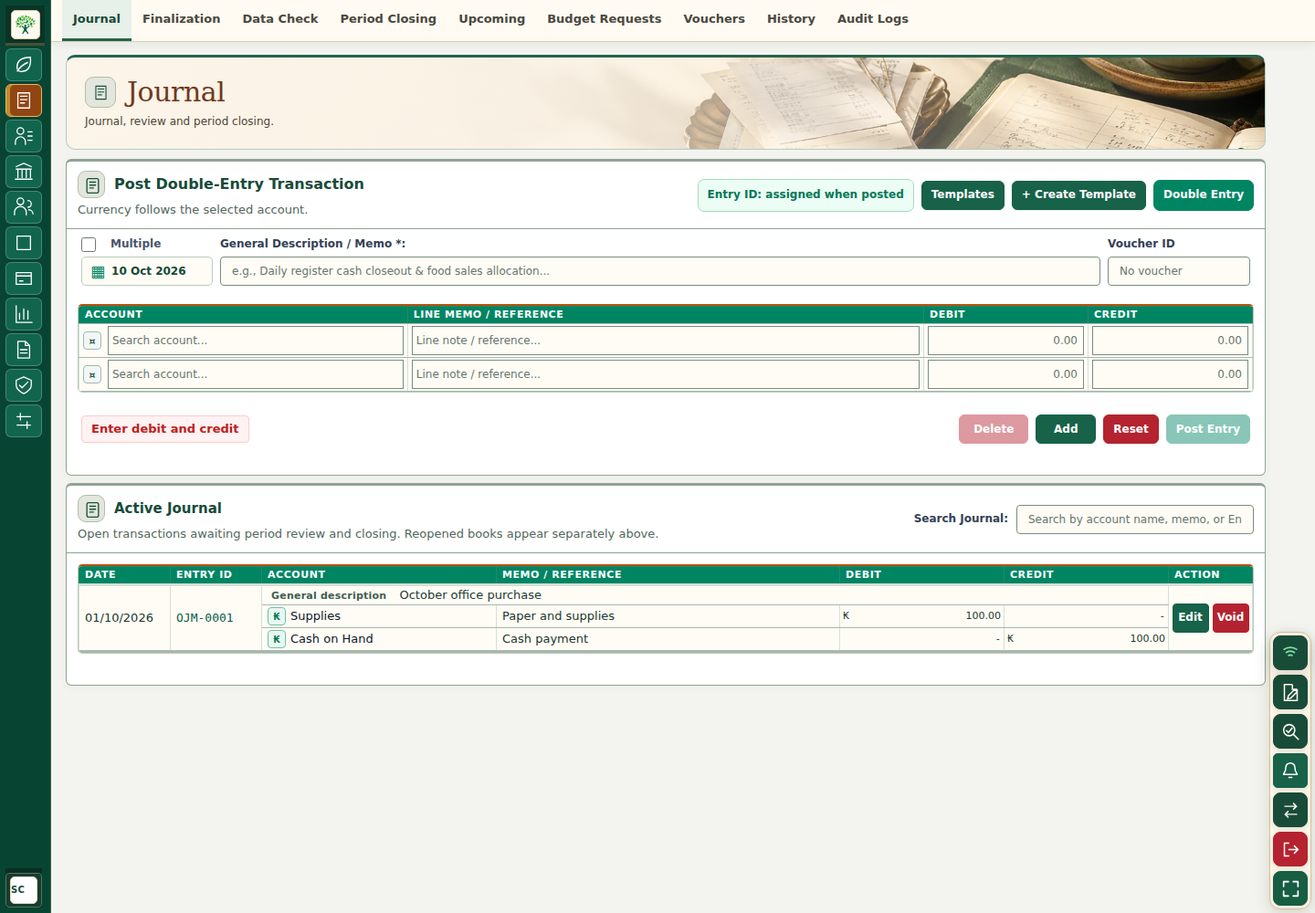
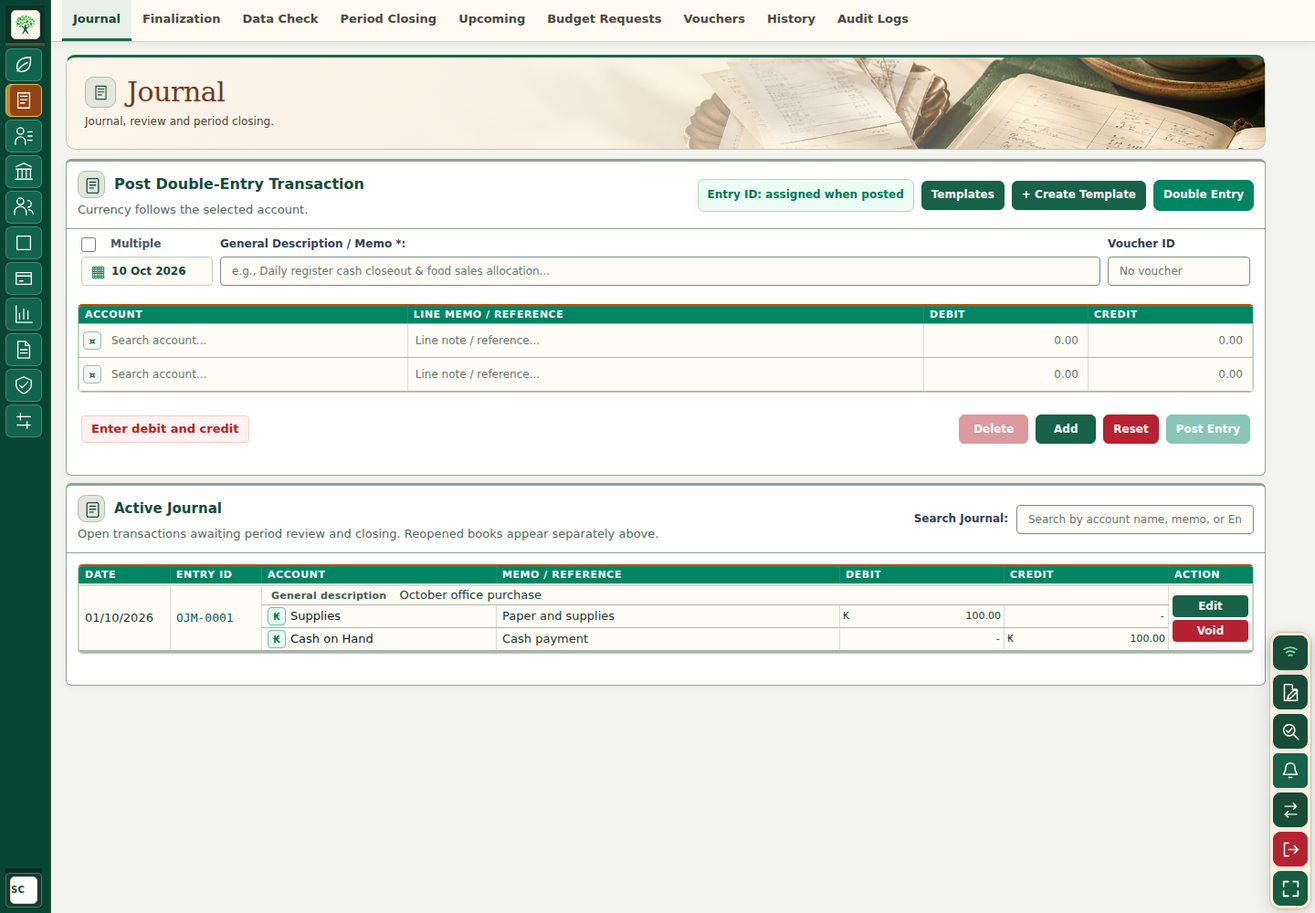
v143.28: Restore vertical journal actions and borderless transaction cells
Keep Edit above Void with the approved 24px journal-only button height exception. Remove nested textbox borders and backgrounds from Post Transaction table cells. Preserve compact rows, input behavior, phone and print layouts.

Validated 12 browser checks and 148 offline asset downloads.

diff --git a/desktop-sw14242.js b/desktop-sw14242.js
@@ -34,8 +34,11 @@ OJM_OFFLINE_ASSETS=[...new Set([...OJM_OFFLINE_ASSETS,...REPORT_COMPARISON_ASSET
 const COMPACT_ASSETS14327=["styles/compact14327.css","scripts/desktop14245-4.js","scripts/offline14239.js","assets/maintenance/release14324.json","docs/UPDATE-v143.27.md"];
 RELEASE_ASSETS14299.push(...COMPACT_ASSETS14327);
 OJM_OFFLINE_ASSETS=[...new Set([...OJM_OFFLINE_ASSETS,...COMPACT_ASSETS14327])];
-const releaseVersion14299=asset=>COMPACT_ASSETS14327.includes(asset)?'143.27':REPORT_COMPARISON_ASSETS14326.includes(asset)?'143.26':POLISH_ASSETS14325.includes(asset)?'143.25':MAINTENANCE_ASSETS14324.includes(asset)?'143.24':RECOVERY_ASSETS14323.includes(asset)?'143.23':PALETTE_ASSETS14321.includes(asset)?'143.21':PORTABLE_ASSETS14320.includes(asset)?'143.20':asset==='scripts/phone-runtime14242.js'?'143.17':["scripts/hr-calendar-news14309.js", "styles/local-events14310.css", "docs/UPDATE-v143.18.md", "scripts/company-accounts14319.js", "docs/UPDATE-v143.19.md", "scripts/offline14239.js", "scripts/desktop14245-2.js", "styles/budget-messages14314.css", "scripts/desktop14245-3.js", "scripts/desktop14245-4.js", "scripts/desktop14245-5.js", "scripts/desktop14245-6.js", "scripts/workflow14253.js", "scripts/layout14256.js", "scripts/action-feedback14296.js", "scripts/vouchers14299.js", "scripts/local-events14310.js", "scripts/navigation-badges14311.js", "scripts/budget-gmail14314.js", "scripts/budget-messages14314.js", "scripts/budget14313.js", "styles/workflow14316.css", "scripts/budget-workflow14316.js", "scripts/navigation-workflow14316.js", "styles/controls14317.css", "scripts/controls14317.js", "scripts/period-closing14317.js", "scripts/phone-runtime14242.js"].includes(asset)?'143.20':["scripts/controls14317.js", "styles/controls14317.css", "scripts/period-closing14317.js", "setup/INSTALL-DEFERRED-SUBMISSIONS-v143.17.sql", "docs/UPDATE-v143.17.md"].includes(asset)?'143.17':["scripts/budget-workflow14316.js", "scripts/navigation-workflow14316.js", "styles/workflow14316.css", "setup/INSTALL-BUDGET-LIFECYCLE-v143.16.sql", "docs/WORKFLOW-v143.16.md", "scripts/budget14313.js", "scripts/budget-messages14314.js", "scripts/action-feedback14296.js", "scripts/vouchers14299.js", "scripts/navigation-badges14311.js", "scripts/local-events14310.js", "scripts/layout14256.js", "scripts/desktop14245-2.js", "scripts/desktop14245-3.js", "scripts/desktop14245-4.js", "scripts/desktop14245-5.js", "scripts/desktop14245-6.js", "scripts/offline14239.js", "scripts/archive-v128.js", "scripts/audit-workspace14232.js", "scripts/backup-validation1441.js"].includes(asset)?'143.17':["scripts/budget-gmail14314.js", "scripts/budget-messages14314.js", "styles/budget-messages14314.css", "docs/GMAIL-SETUP-v143.14.md", "scripts/budget14313.js", "scripts/desktop14245-5.js", "scripts/offline14239.js"].includes(asset)?'143.14':['scripts/budget14313.js','setup/INSTALL-BUDGET-TEMPLATES-v143.13.sql'].includes(asset)?'143.13':['scripts/desktop14245-3.js', 'scripts/desktop14245-4.js', 'scripts/desktop14245-5.js', 'scripts/desktop14245-6.js', 'scripts/document-downloads14311.js', 'scripts/offline14239.js', 'scripts/phone-runtime14242.js', 'styles/navigation-badges14311.css'].includes(asset)?'143.13':['scripts/document-downloads14311.js','scripts/offline14239.js','setup/INSTALL-DOWNLOAD-PASSWORDS-v143.12.sql'].includes(asset)?'143.12':['scripts/document-downloads14311.js','scripts/navigation-badges14311.js','styles/navigation-badges14311.css','setup/INSTALL-HR-DOCUMENT-FORMATS-v143.11.sql','scripts/desktop14245-3.js','scripts/desktop14245-4.js','scripts/hr-workspace14306.js','scripts/offline14239.js'].includes(asset)?'143.11':['scripts/local-events14310.js','styles/local-events14310.css','docs/LOCAL-EVENTS-SETUP.txt','scripts/hr-calendar14306.js','scripts/hr-calendar-news14309.js','scripts/desktop14245-4.js','scripts/offline14239.js'].includes(asset)?'143.10':['scripts/hr-calendar-news14309.js','scripts/hr-calendar-model14306.js','scripts/hr-calendar14306.js','styles/hr-workspace14306.css','scripts/desktop14245-3.js','scripts/offline14239.js'].includes(asset)?'143.09':['styles/controls14305.css', 'styles/hr-workspace14306.css', 'scripts/desktop14245-3.js', 'scripts/desktop14245-6.js', 'scripts/offline14239.js', 'scripts/phone-runtime14242.js'].includes(asset)?'143.08':['scripts/desktop14245-6.js','scripts/desktop14245-4.js','scripts/desktop14245-3.js','scripts/hr-calendar14306.js','scripts/hr-workspace14306.js','scripts/offline14239.js','styles/hr-workspace14306.css'].includes(asset)?'143.07':['scripts/account-picker1428.js','scripts/offline14239.js', 'scripts/desktop14245-3.js', 'scripts/desktop14245-4.js', 'scripts/desktop14245-5.js', 'scripts/desktop14245-6.js', 'scripts/report-formats14282.js', 'scripts/phone-runtime14242.js', 'scripts/hr-calendar-model14306.js', 'scripts/hr-calendar14306.js', 'scripts/hr-workspace14306.js', 'styles/hr-workspace14306.css', 'setup/INSTALL-HR-CALENDAR-v143.06.sql'].includes(asset)?'143.06':['styles/controls14305.css', 'scripts/workflow14253.js', 'scripts/phone-runtime14242.js', 'scripts/vouchers14299.js', 'scripts/desktop14245-3.js', 'scripts/desktop14245-5.js', 'scripts/offline14239.js'].includes(asset)?'143.05':['scripts/report-formats14282.js','scripts/journal-description14281.js','scripts/vouchers14299.js','scripts/transaction-consistency14300.js','styles/transaction-consistency14300.css','scripts/layout-voucher-polish14301.js','styles/layout-voucher-polish14301.css','scripts/desktop14245-3.js','scripts/desktop14245-4.js','scripts/desktop14245-6.js','scripts/offline14239.js'].includes(asset)?'143.04':'142.99';
-const VERSION='143.27',STATIC_VERSION='142.47',CACHE='ojm-accounting-shell-'+STATIC_VERSION;
+const JOURNAL_ACTIONS14328=["styles/compact14327.css","scripts/offline14239.js","assets/maintenance/release14324.json","docs/UPDATE-v143.28.md"];
+RELEASE_ASSETS14299.push(...JOURNAL_ACTIONS14328);
+OJM_OFFLINE_ASSETS=[...new Set([...OJM_OFFLINE_ASSETS,...JOURNAL_ACTIONS14328])];
+const releaseVersion14299=asset=>JOURNAL_ACTIONS14328.includes(asset)?'143.28':COMPACT_ASSETS14327.includes(asset)?'143.27':REPORT_COMPARISON_ASSETS14326.includes(asset)?'143.26':POLISH_ASSETS14325.includes(asset)?'143.25':MAINTENANCE_ASSETS14324.includes(asset)?'143.24':RECOVERY_ASSETS14323.includes(asset)?'143.23':PALETTE_ASSETS14321.includes(asset)?'143.21':PORTABLE_ASSETS14320.includes(asset)?'143.20':asset==='scripts/phone-runtime14242.js'?'143.17':["scripts/hr-calendar-news14309.js", "styles/local-events14310.css", "docs/UPDATE-v143.18.md", "scripts/company-accounts14319.js", "docs/UPDATE-v143.19.md", "scripts/offline14239.js", "scripts/desktop14245-2.js", "styles/budget-messages14314.css", "scripts/desktop14245-3.js", "scripts/desktop14245-4.js", "scripts/desktop14245-5.js", "scripts/desktop14245-6.js", "scripts/workflow14253.js", "scripts/layout14256.js", "scripts/action-feedback14296.js", "scripts/vouchers14299.js", "scripts/local-events14310.js", "scripts/navigation-badges14311.js", "scripts/budget-gmail14314.js", "scripts/budget-messages14314.js", "scripts/budget14313.js", "styles/workflow14316.css", "scripts/budget-workflow14316.js", "scripts/navigation-workflow14316.js", "styles/controls14317.css", "scripts/controls14317.js", "scripts/period-closing14317.js", "scripts/phone-runtime14242.js"].includes(asset)?'143.20':["scripts/controls14317.js", "styles/controls14317.css", "scripts/period-closing14317.js", "setup/INSTALL-DEFERRED-SUBMISSIONS-v143.17.sql", "docs/UPDATE-v143.17.md"].includes(asset)?'143.17':["scripts/budget-workflow14316.js", "scripts/navigation-workflow14316.js", "styles/workflow14316.css", "setup/INSTALL-BUDGET-LIFECYCLE-v143.16.sql", "docs/WORKFLOW-v143.16.md", "scripts/budget14313.js", "scripts/budget-messages14314.js", "scripts/action-feedback14296.js", "scripts/vouchers14299.js", "scripts/navigation-badges14311.js", "scripts/local-events14310.js", "scripts/layout14256.js", "scripts/desktop14245-2.js", "scripts/desktop14245-3.js", "scripts/desktop14245-4.js", "scripts/desktop14245-5.js", "scripts/desktop14245-6.js", "scripts/offline14239.js", "scripts/archive-v128.js", "scripts/audit-workspace14232.js", "scripts/backup-validation1441.js"].includes(asset)?'143.17':["scripts/budget-gmail14314.js", "scripts/budget-messages14314.js", "styles/budget-messages14314.css", "docs/GMAIL-SETUP-v143.14.md", "scripts/budget14313.js", "scripts/desktop14245-5.js", "scripts/offline14239.js"].includes(asset)?'143.14':['scripts/budget14313.js','setup/INSTALL-BUDGET-TEMPLATES-v143.13.sql'].includes(asset)?'143.13':['scripts/desktop14245-3.js', 'scripts/desktop14245-4.js', 'scripts/desktop14245-5.js', 'scripts/desktop14245-6.js', 'scripts/document-downloads14311.js', 'scripts/offline14239.js', 'scripts/phone-runtime14242.js', 'styles/navigation-badges14311.css'].includes(asset)?'143.13':['scripts/document-downloads14311.js','scripts/offline14239.js','setup/INSTALL-DOWNLOAD-PASSWORDS-v143.12.sql'].includes(asset)?'143.12':['scripts/document-downloads14311.js','scripts/navigation-badges14311.js','styles/navigation-badges14311.css','setup/INSTALL-HR-DOCUMENT-FORMATS-v143.11.sql','scripts/desktop14245-3.js','scripts/desktop14245-4.js','scripts/hr-workspace14306.js','scripts/offline14239.js'].includes(asset)?'143.11':['scripts/local-events14310.js','styles/local-events14310.css','docs/LOCAL-EVENTS-SETUP.txt','scripts/hr-calendar14306.js','scripts/hr-calendar-news14309.js','scripts/desktop14245-4.js','scripts/offline14239.js'].includes(asset)?'143.10':['scripts/hr-calendar-news14309.js','scripts/hr-calendar-model14306.js','scripts/hr-calendar14306.js','styles/hr-workspace14306.css','scripts/desktop14245-3.js','scripts/offline14239.js'].includes(asset)?'143.09':['styles/controls14305.css', 'styles/hr-workspace14306.css', 'scripts/desktop14245-3.js', 'scripts/desktop14245-6.js', 'scripts/offline14239.js', 'scripts/phone-runtime14242.js'].includes(asset)?'143.08':['scripts/desktop14245-6.js','scripts/desktop14245-4.js','scripts/desktop14245-3.js','scripts/hr-calendar14306.js','scripts/hr-workspace14306.js','scripts/offline14239.js','styles/hr-workspace14306.css'].includes(asset)?'143.07':['scripts/account-picker1428.js','scripts/offline14239.js', 'scripts/desktop14245-3.js', 'scripts/desktop14245-4.js', 'scripts/desktop14245-5.js', 'scripts/desktop14245-6.js', 'scripts/report-formats14282.js', 'scripts/phone-runtime14242.js', 'scripts/hr-calendar-model14306.js', 'scripts/hr-calendar14306.js', 'scripts/hr-workspace14306.js', 'styles/hr-workspace14306.css', 'setup/INSTALL-HR-CALENDAR-v143.06.sql'].includes(asset)?'143.06':['styles/controls14305.css', 'scripts/workflow14253.js', 'scripts/phone-runtime14242.js', 'scripts/vouchers14299.js', 'scripts/desktop14245-3.js', 'scripts/desktop14245-5.js', 'scripts/offline14239.js'].includes(asset)?'143.05':['scripts/report-formats14282.js','scripts/journal-description14281.js','scripts/vouchers14299.js','scripts/transaction-consistency14300.js','styles/transaction-consistency14300.css','scripts/layout-voucher-polish14301.js','styles/layout-voucher-polish14301.css','scripts/desktop14245-3.js','scripts/desktop14245-4.js','scripts/desktop14245-6.js','scripts/offline14239.js'].includes(asset)?'143.04':'142.99';
+const VERSION='143.28',STATIC_VERSION='142.47',CACHE='ojm-accounting-shell-'+STATIC_VERSION;
 const PHONE_ASSETS14253=['scripts/workflow14253.js','scripts/account-groups14253.js','scripts/field-focus14253.js','styles/workflow14253.css','scripts/offline14239.js','scripts/desktop14245-3.js','scripts/phone-connected.js','scripts/phone-account-picker14227.js'];
 const PHONE_ASSETS14252=['scripts/phone-keyboard14252.js','scripts/admin-access14251.js','scripts/phone-connected.js'];
 const PHONE_ASSETS14251=['scripts/admin-access14251.js','scripts/phone-connected.js','scripts/desktop14245-6.js'];
@@ -52,7 +55,7 @@ self.addEventListener('install',event=>event.waitUntil((async()=>{
   // Reuse the versioned files already loaded by the browser; keep downloads small.
   for(let i=0;i<OJM_OFFLINE_ASSETS.length;i+=2)await Promise.all(OJM_OFFLINE_ASSETS.slice(i,i+2).map(async asset=>{
    if(critical.includes(asset))return;
-   const url=new URL(asset,self.registration.scope);if(/\.(js|css)$/.test(asset)||MAINTENANCE_ASSETS14324.includes(asset)||REPORT_COMPARISON_ASSETS14326.includes(asset)||COMPACT_ASSETS14327.includes(asset))url.searchParams.set('v',RELEASE_ASSETS14299.includes(asset)?releaseVersion14299(asset):PARENT_ASSETS14287.includes(asset)?'142.94.1':ENTRY_ASSETS14271.includes(asset)?'142.94':FIT_ASSETS14267.includes(asset)?'142.67':TABLET_ASSETS14266.includes(asset)?'142.66':LOGIN_ASSETS14265.includes(asset)?'142.65':AUTH_ASSETS14264.includes(asset)?'142.64':REPORT_ASSETS14262.includes(asset)?'142.62':HEIGHT_ASSETS14260.includes(asset)?'142.60':UPDATE_ASSETS14257.includes(asset)?'142.57':LAYOUT_ASSETS14256.includes(asset)?'142.56':FIX_ASSETS14255.includes(asset)?'142.55':REPORT_ASSETS14254.includes(asset)?'142.54':PHONE_ASSETS14253.includes(asset)?'142.53':PHONE_ASSETS14252.includes(asset)?'142.52':PHONE_ASSETS14251.includes(asset)?'142.51':PHONE_ASSETS14250.includes(asset)?'142.50':PHONE_ASSETS14249.includes(asset)?'142.49':PHONE_ASSETS14248.includes(asset)?'142.48':STATIC_VERSION);
+   const url=new URL(asset,self.registration.scope);if(/\.(js|css)$/.test(asset)||MAINTENANCE_ASSETS14324.includes(asset)||REPORT_COMPARISON_ASSETS14326.includes(asset)||COMPACT_ASSETS14327.includes(asset)||JOURNAL_ACTIONS14328.includes(asset))url.searchParams.set('v',RELEASE_ASSETS14299.includes(asset)?releaseVersion14299(asset):PARENT_ASSETS14287.includes(asset)?'142.94.1':ENTRY_ASSETS14271.includes(asset)?'142.94':FIT_ASSETS14267.includes(asset)?'142.67':TABLET_ASSETS14266.includes(asset)?'142.66':LOGIN_ASSETS14265.includes(asset)?'142.65':AUTH_ASSETS14264.includes(asset)?'142.64':REPORT_ASSETS14262.includes(asset)?'142.62':HEIGHT_ASSETS14260.includes(asset)?'142.60':UPDATE_ASSETS14257.includes(asset)?'142.57':LAYOUT_ASSETS14256.includes(asset)?'142.56':FIX_ASSETS14255.includes(asset)?'142.55':REPORT_ASSETS14254.includes(asset)?'142.54':PHONE_ASSETS14253.includes(asset)?'142.53':PHONE_ASSETS14252.includes(asset)?'142.52':PHONE_ASSETS14251.includes(asset)?'142.51':PHONE_ASSETS14250.includes(asset)?'142.50':PHONE_ASSETS14249.includes(asset)?'142.49':PHONE_ASSETS14248.includes(asset)?'142.48':STATIC_VERSION);
    const controller=new AbortController(),timer=setTimeout(()=>controller.abort(),20000);
    try{if(await cache.match(asset)&&!RELEASE_ASSETS14299.includes(asset)&&!PARENT_ASSETS14287.includes(asset)&&asset!=='phone-accounting.html'&&!PHONE_ASSETS14248.includes(asset)&&!PHONE_ASSETS14249.includes(asset)&&!PHONE_ASSETS14250.includes(asset)&&!PHONE_ASSETS14251.includes(asset)&&!PHONE_ASSETS14252.includes(asset)&&!PHONE_ASSETS14253.includes(asset)&&!REPORT_ASSETS14254.includes(asset)&&!LAYOUT_ASSETS14256.includes(asset)&&!FIX_ASSETS14255.includes(asset)&&!UPDATE_ASSETS14257.includes(asset)&&!REPORT_ASSETS14262.includes(asset)&&!AUTH_ASSETS14264.includes(asset)&&!LOGIN_ASSETS14265.includes(asset)&&!TABLET_ASSETS14266.includes(asset)&&!FIT_ASSETS14267.includes(asset)&&!ENTRY_ASSETS14271.includes(asset))return;const response=await fetch(url,{cache:'force-cache',signal:controller.signal});if(!response.ok)throw Error('Offline file could not download: '+asset);await cache.put(asset,response.clone());if(RELEASE_ASSETS14299.includes(asset))await(await caches.open('ojm-accounting-shell-'+releaseVersion14299(asset))).put(asset,response.clone());if(PARENT_ASSETS14287.includes(asset))await(await caches.open('ojm-accounting-shell-142.94.1')).put(asset,response.clone());if(ENTRY_ASSETS14271.includes(asset))await(await caches.open('ojm-accounting-shell-142.94')).put(asset,response.clone());if(FIT_ASSETS14267.includes(asset)&&!ENTRY_ASSETS14271.includes(asset))await(await caches.open('ojm-accounting-shell-142.67')).put(asset,response.clone());if(TABLET_ASSETS14266.includes(asset)&&!FIT_ASSETS14267.includes(asset))await(await caches.open('ojm-accounting-shell-142.66')).put(asset,response.clone());if(LOGIN_ASSETS14265.includes(asset)&&!TABLET_ASSETS14266.includes(asset))await(await caches.open('ojm-accounting-shell-142.65')).put(asset,response.clone());if(AUTH_ASSETS14264.includes(asset))await(await caches.open('ojm-accounting-shell-142.64')).put(asset,response.clone());if(REPORT_ASSETS14262.includes(asset))await(await caches.open('ojm-accounting-shell-142.62')).put(asset,response.clone());if(HEIGHT_ASSETS14260.includes(asset))await(await caches.open('ojm-accounting-shell-142.60')).put(asset,response.clone());if(UPDATE_ASSETS14257.includes(asset))await(await caches.open('ojm-accounting-shell-142.57')).put(asset,response.clone());if(LAYOUT_ASSETS14256.includes(asset))await(await caches.open('ojm-accounting-shell-142.56')).put(asset,response.clone());if(FIX_ASSETS14255.includes(asset))await(await caches.open('ojm-accounting-shell-142.55')).put(asset,response.clone());if(REPORT_ASSETS14254.includes(asset))await(await caches.open('ojm-accounting-shell-142.54')).put(asset,response.clone());if(PHONE_ASSETS14253.includes(asset))await(await caches.open('ojm-accounting-shell-142.53')).put(asset,response.clone());if(PHONE_ASSETS14252.includes(asset))await(await caches.open('ojm-accounting-shell-142.52')).put(asset,response.clone());if(PHONE_ASSETS14251.includes(asset))await(await caches.open('ojm-accounting-shell-142.51')).put(asset,response.clone());if(PHONE_ASSETS14250.includes(asset))await(await caches.open('ojm-accounting-shell-142.50')).put(asset,response.clone());if(PHONE_ASSETS14249.includes(asset))await(await caches.open('ojm-accounting-shell-142.49')).put(asset,response.clone());if(PHONE_ASSETS14248.includes(asset))await(await caches.open('ojm-accounting-shell-142.48')).put(asset,response)}finally{clearTimeout(timer)}
   }));

diff --git a/scripts/offline14239.js b/scripts/offline14239.js
@@ -93,7 +93,7 @@ function renderDialog(){
  const footer=add('footer','');const close=add('button','Close',footer);close.type='button';close.onclick=()=>dialog.close();
 }
 function paint(doc=document,phone=false){if(visibleActor!==actor()){visibleActor=actor();dialog?.close();lastRead=null}const s=state(),label=s.online?'Online':navigator.onLine===false?'Offline':'Limited connection';const hosts=phone?[doc.querySelector('.top')]:[...doc.querySelectorAll('.area-banner113,.dash-hero112')];for(const host of hosts.filter(Boolean)){let b=host.querySelector('.connection14239');if(!b){b=doc.createElement('button');b.type='button';b.className='connection14239';b.onclick=open;if(phone)host.insertBefore(b,host.querySelector('.profile'));else host.append(b)}const text=label;if(b.textContent!==text)b.textContent=text;const state=s.online?'online':navigator.onLine===false?'offline':'limited',aria=text+(window.autoSync14256?'. Connection and automatic sync':'. Connection and saved-entry status');if(b.dataset.state!==state)b.dataset.state=state;if(b.getAttribute('aria-label')!==aria)b.setAttribute('aria-label',aria);}}
-const SHELL_VERSION='143.27';let shellRegistration=null,waitingForLoad=false,shellFailures=0,shellRetry=null;
+const SHELL_VERSION='143.28';let shellRegistration=null,waitingForLoad=false,shellFailures=0,shellRetry=null;
 async function checkShell(worker){if(!worker)return;const channel=new MessageChannel();let timer;try{const data=await new Promise((resolve,reject)=>{timer=setTimeout(()=>reject(Error('Offline files are still preparing')),1500);channel.port1.onmessage=e=>resolve(e.data);worker.postMessage({type:'ojm-shell-status'},[channel.port2])});shellReady=data.ready===true&&data.version===SHELL_VERSION;if(shellReady&&/^(Offline files|Offline reopening)/.test(storageError))storageError='';changed()}catch{shellReady=false}finally{clearTimeout(timer);channel.port1.close()}}
 function registerShell(){
  if(window.startup14257&&!window.startup14257.interactive&&typeof liveProfile!=='undefined'&&liveProfile){clearTimeout(shellRetry);shellRetry=setTimeout(registerShell,3000);return}

diff --git a/styles/compact14327.css b/styles/compact14327.css
@@ -26,8 +26,13 @@
   }
   body .tab-content table .currency-symbol-badge {width:20px!important;height:20px!important;min-width:20px!important;min-height:20px!important;flex:0 0 20px!important;font-size:11px!important;line-height:1!important;border-radius:4px!important;box-sizing:border-box!important;vertical-align:middle!important;}
   body .tab-content table .transaction-account-display {gap:5px!important;min-height:0!important;}
-  body :is(#journal,.personal-active1437) .clustered-journal-table .transaction-review-actions {flex-direction:row!important;flex-wrap:nowrap!important;gap:4px!important;justify-content:center!important;}
-  body :is(#journal,.personal-active1437) .clustered-journal-table .transaction-review-actions .je-btn {width:40px!important;min-width:0!important;flex:0 0 40px!important;padding-inline:2px!important;}
-  body .personal-active1437 .clustered-journal-table :is(th:last-child,.personal-actions14283) {width:92px!important;min-width:92px!important;}
+  /* Post Transaction uses the table cell boundary, without a second input box. */
+  body #journalEntry98 #jeLinesBody :is(input,select,textarea,.oj-date-button104,.account-input-wrap,.account-choice14231,.journal-money102) {
+   border:0!important;border-radius:0!important;background:transparent!important;box-shadow:none!important;outline:none!important;
+  }
+  body #journalEntry98 #jeLinesBody :is(.account-input-wrap,.account-choice14231) {height:32px!important;min-height:32px!important;max-height:32px!important;padding-block:0!important;}
+  /* Approved exception: journal Edit above Void, 24px each within the shared entry cell. */
+  body :is(#journal,.personal-active1437) .clustered-journal-table .transaction-review-actions {flex-direction:column!important;flex-wrap:nowrap!important;gap:3px!important;justify-content:center!important;}
+  body :is(#journal,.personal-active1437) .clustered-journal-table .transaction-review-actions .je-btn {height:24px!important;min-height:24px!important;max-height:24px!important;flex:0 0 24px!important;padding:0 6px!important;line-height:1!important;}
  }
 }

diff --git a/desktop.html b/desktop.html
@@ -5,7 +5,7 @@
 <script src="scripts/system-diagnostics14324.js?v=143.26"></script><script>(()=>{const q=new URLSearchParams(location.search),h=new URLSearchParams(location.hash.slice(1));if(q.has('password-recovery')||q.get('type')==='recovery'||h.get('type')==='recovery'||q.has('error_description')||h.has('error_description')){window.recoveryRedirect14257=true;const u=new URL('recovery.html',location.href);u.search=location.search;u.hash=location.hash;location.replace(u.href)}})();</script>
   <meta charset="UTF-8" />
   <script src="deployment-config.js?v=143.20"></script><script>if(!window.OJM_DEPLOYMENT?.supabase?.url||!window.OJM_DEPLOYMENT?.supabase?.publishableKey)location.replace(new URL("setup.html",location.href).href)</script><meta name="viewport" content="width=device-width, initial-scale=1.0, maximum-scale=5.0">
-  <script src="scripts/offline14239.js?v=143.27"></script>
+  <script src="scripts/offline14239.js?v=143.28"></script>
   <link rel="stylesheet" href="styles/desktop14245.css?v=142.99">
   <link rel="stylesheet" href="styles/voucher-layout14299.css?v=142.99.2">
   <script src="scripts/desktop14245-1.js?v=143.20"></script>
@@ -48,7 +48,7 @@
 <script src="scripts/numeric-caret14257.js?v=142.57"></script>
 <script src="scripts/login-notifications14293.js?v=142.94"></script><link rel="stylesheet" href="styles/login-notifications14293.css?v=142.94"><link rel="stylesheet" href="styles/account-parent14287.css?v=142.96"><script src="scripts/feedback-viewport14295.js?v=143.20"></script><link rel="stylesheet" href="styles/hr-workspace14306.css?v=143.09">
   <link rel="stylesheet" href="styles/budget-messages14314.css?v=143.20">
-<link rel="stylesheet" href="styles/desktop-scale14320.css?v=143.20"><script src="scripts/desktop-scale14320.js?v=143.23"></script><link rel="stylesheet" href="styles/compact14327.css?v=143.27">
+<link rel="stylesheet" href="styles/desktop-scale14320.css?v=143.20"><script src="scripts/desktop-scale14320.js?v=143.23"></script><link rel="stylesheet" href="styles/compact14327.css?v=143.28">
 </head>
 <body>
 

diff --git a/validation/build-maintenance-manifest14324.py b/validation/build-maintenance-manifest14324.py
@@ -25,7 +25,7 @@ for path in sorted(paths):
    body=text[m.end():matches[i+1].start() if i+1<len(matches) else len(text)]
    item['segments'].append({'source':m.group(1),'sha256':hashbytes(body.encode())})
  files.append(item)
-manifest={'release':'143.27','comparisonBaseline':'v143.16 / 14d724e15c057bbd4e63324754f89959ea48a784','files':files,'approvedRules':[
+manifest={'release':'143.28','comparisonBaseline':'v143.16 / 14d724e15c057bbd4e63324754f89959ea48a784','files':files,'approvedRules':[
  {'rule':'Native 100% desktop; no global zoom/media rewriting','validation':'validation/test-recovery14323.cjs'},
  {'rule':'Preserve phone v142.53 navigation and layout','validation':'validation/test-phone-tools14317.cjs'},
  {'rule':'Administrator workspace and period descriptions remain stable','validation':'validation/test-regressions14304.cjs'},

diff --git a/AGENTS.md b/AGENTS.md
@@ -30,7 +30,12 @@ only; never trigger either on deletion, voiding, or an empty filtered screen.
 Action control rule: Save, Open, Templates, Print, Add, Edit, Delete and similar
 small action buttons use the 32px Template / Post Entry height in
 styles/controls14305.css. Scope sizing to explicit action classes or action
-containers. NEVER apply a universal button/[role=button] size or appearance rule.
+containers. Exception approved 2026-10-10: Active Journal Edit and Void stay
+vertically stacked (Edit above Void), 24px each with a 3px gap, including the
+shared sub-user journal. This is the only exception to the small-action height.
+Post Transaction table cells use borderless, transparent editing fields; do not
+add nested textbox borders or backgrounds inside the cell boundaries.
+NEVER apply a universal button/[role=button] size or appearance rule.
 Top tabs, sidebar navigation, profile/name cards, sub-user cards, dashboard
 summaries, calendar cells, and document tabs retain their component designs.
 Attendance squares stay compact at 22px; distribute date columns across the module width (scroll only when too narrow). Center the rendered day number,

diff --git a/docs/UPDATE-v143.28.md b/docs/UPDATE-v143.28.md
@@ -1,0 +1,7 @@
+# v143.28 — Restore vertical journal actions
+
+Restore the original Active Journal action arrangement: Edit above Void, including the sub-user journal. These buttons alone use 24px height with a 3px gap so the stack fits within the compact entry rows. Other small action buttons retain 32px height. This supersedes the horizontal arrangement introduced in v143.27.
+
+Post Transaction table editing fields and picker wrappers use transparent backgrounds with no inner textbox borders. The table keeps its cell boundaries and existing input, account-selection and calculation behavior. This also applies when the shared editor is opened for a sub-user.
+
+The compact table spacing, 20px currency badges, aligned input heights and fullscreen behavior remain intact. Phone, print and accounting logic are unchanged. No database migration is needed.
